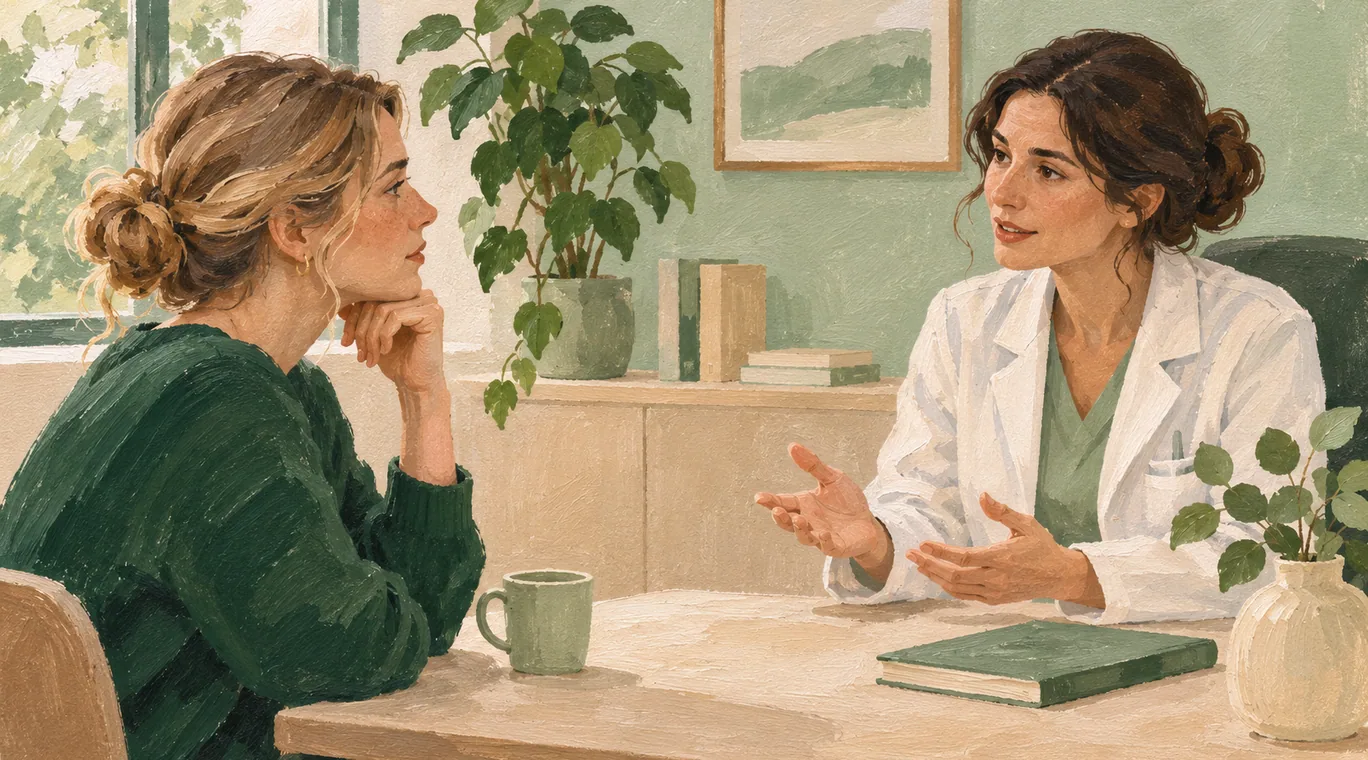
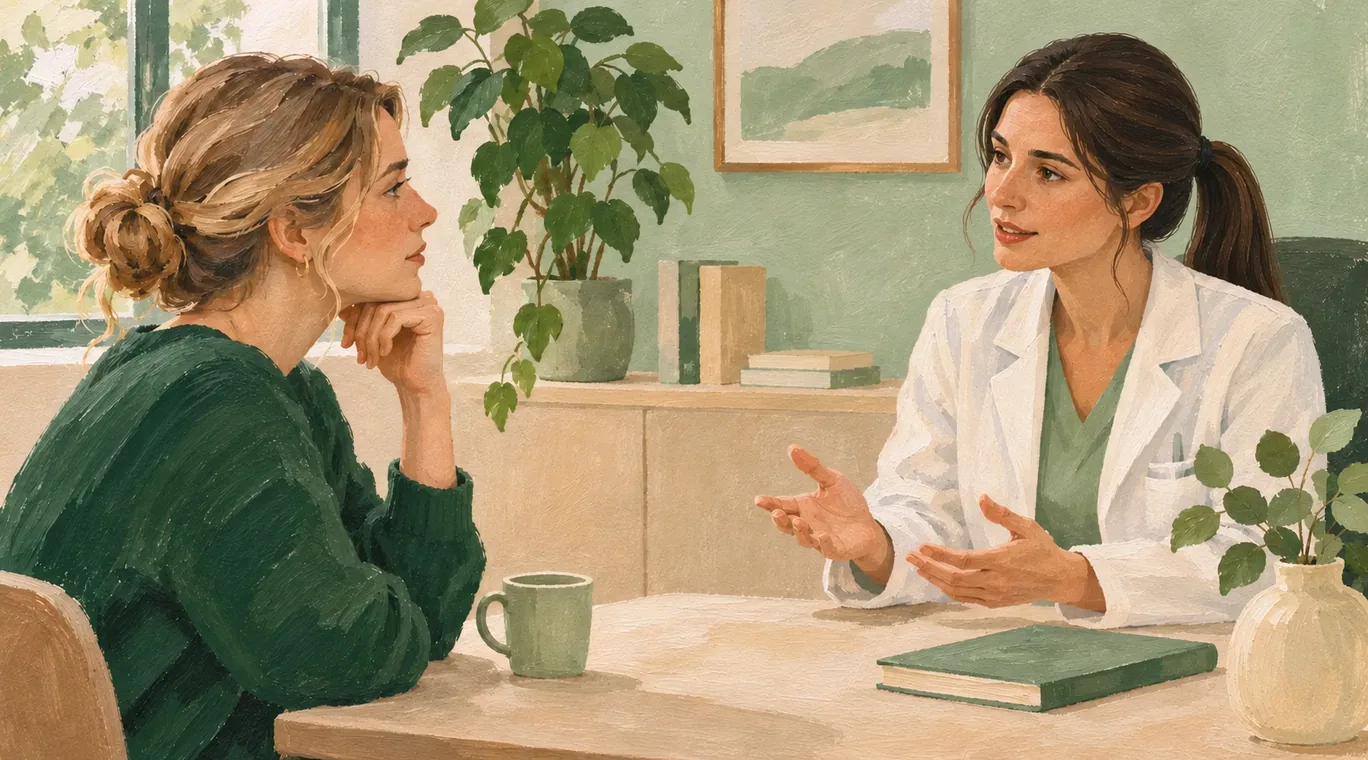
Use straight ponytails for clinician illustrations

diff --git a/.agents/skills/blog-hero-illustration/SKILL.md b/.agents/skills/blog-hero-illustration/SKILL.md
@@ -7,7 +7,7 @@ description: Generate and optimize Praxis Jona blog hero illustrations in the cl
 
 Create article-specific, respectful editorial images. Read the article and current site design before choosing a subject. Confirm the intended use and ask about missing subject, intent, visual references, details to preserve, and style when they cannot be inferred. If the user asks for style options, offer distinct directions. Preserve supplied references and avoid invented text, unsupported medical claims, misleading clinical details, or implied cures.
 
-The owner selected textured gouache as the preferred editorial direction on 2026-11-02. Use matte pigment, visible brushwork and paper texture with the clinic palette, unless the user requests another style. Vary subject and composition across articles. When people appear, reflect the article’s audience: include male and female models across images for subjects relevant to both, and male models for predominantly male topics. For iron deficiency and iron-treatment articles, prefer women as the main subjects, following the owner’s 2026-11-02 editorial direction. Do not imply that iron deficiency affects only women. Use women where the article specifically concerns women. If a doctor appears, depict a brunette woman as a fictional clinician; do not depict or imply that she is Dr. Jonida Gjolli.
+The owner selected textured gouache as the preferred editorial direction on 2026-11-02. Use matte pigment, visible brushwork and paper texture with the clinic palette, unless the user requests another style. Vary subject and composition across articles. When people appear, reflect the article’s audience: include male and female models across images for subjects relevant to both, and male models for predominantly male topics. For iron deficiency and iron-treatment articles, prefer women as the main subjects, following the owner’s 2026-11-02 editorial direction. Do not imply that iron deficiency affects only women. Use women where the article specifically concerns women. If a doctor appears, depict a fictional brunette clinician with straight hair tied in a ponytail. Do not depict or imply that she is Dr. Jonida Gjolli.
 
 Use the available image-generation tool to create each requested variant separately. Describe the subject, composition, medium, mood, and constraints. Do not include text, logos, or identifiable people unless requested. When medical content is involved, use a thoughtful metaphor that does not present a subjective experience as a diagnosis. Follow explicit user choices over these defaults.
 
